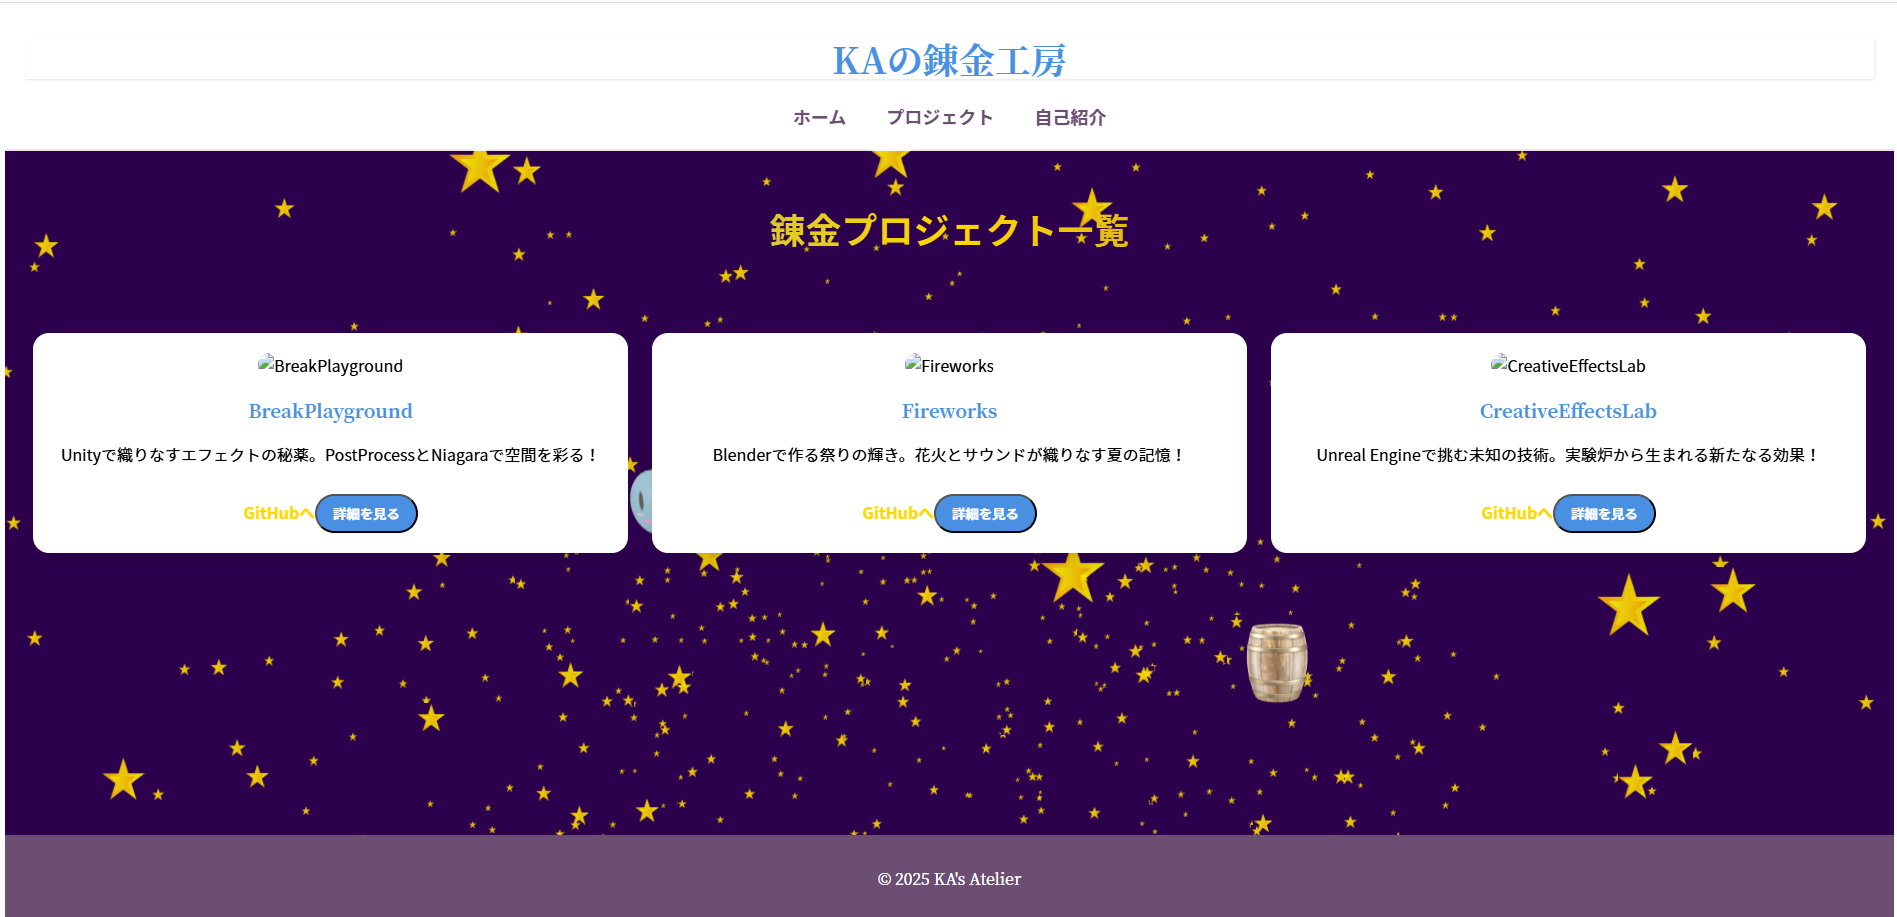
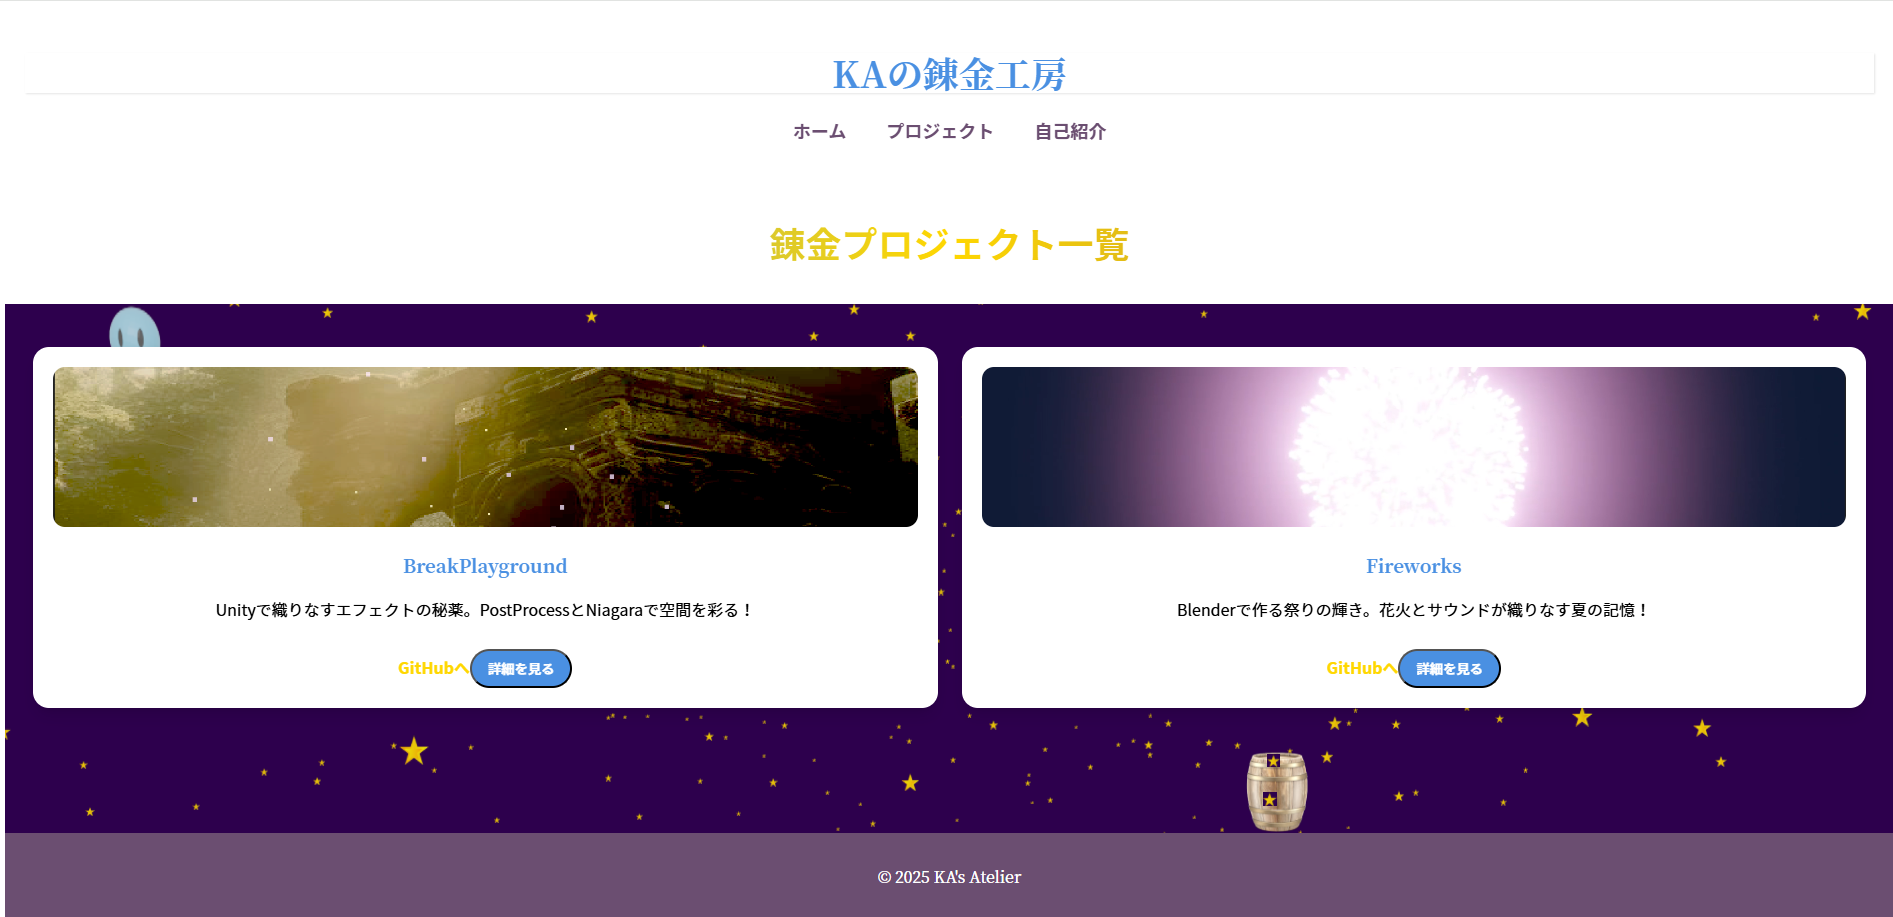
画像の追加、ぷに、樽の位置調整

diff --git a/src/components/AlchemisetSceneProject.vue b/src/components/AlchemisetSceneProject.vue
@@ -78,7 +78,7 @@ export default defineComponent({
       );
       const puniMaterial = new THREE.SpriteMaterial({ map: puniTexture });
       const puni = new THREE.Sprite(puniMaterial);
-      puni.position.set(-32, 11.2, 2); // 左側、カメラ前方に配置
+      puni.position.set(-32, 16.2, 2); // 左側、カメラ前方に配置
       puni.scale.set(4, 4, 4); // 大きさを調整
       scene.add(puni);
 
@@ -91,7 +91,7 @@ export default defineComponent({
       );
       const barrelMaterial = new THREE.SpriteMaterial({ map: barrelTexture });
       const barrel = new THREE.Sprite(barrelMaterial);
-      barrel.position.set(12, -2, 2); // 右側に配置
+      barrel.position.set(12, -1, 2); // 右側に配置
       barrel.scale.set(4.5, 4.5, 4.5); // サイズを調整
       scene.add(barrel);
 
